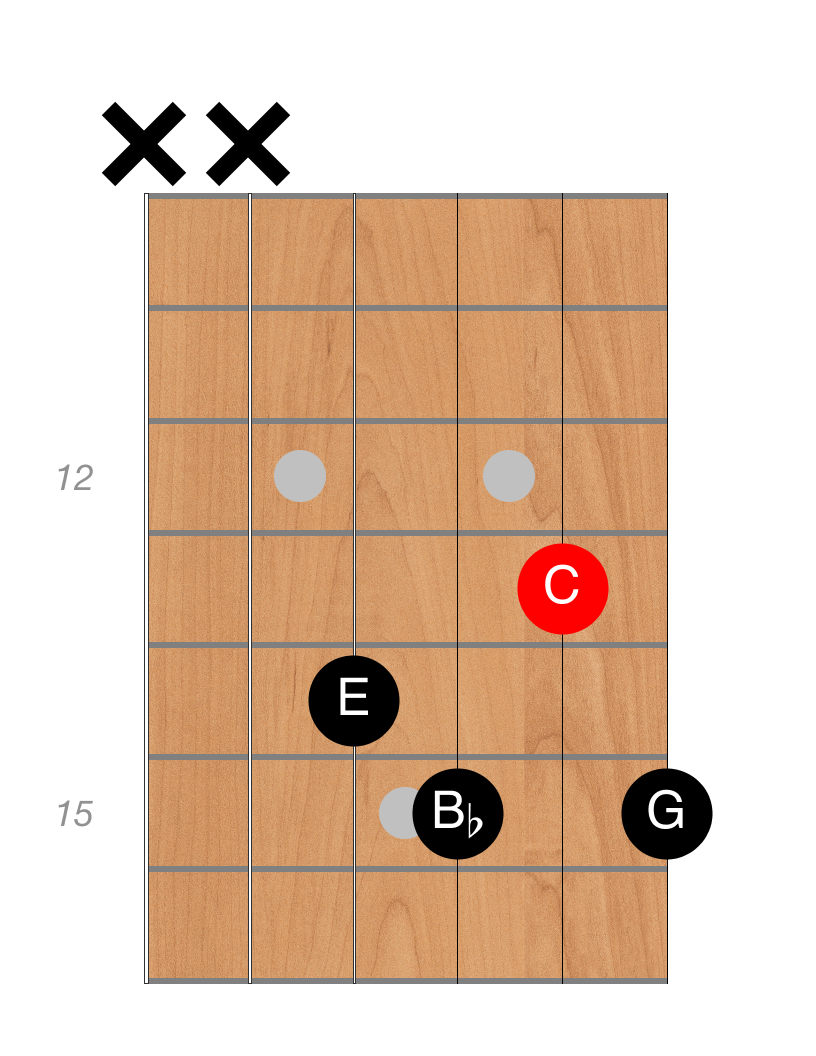
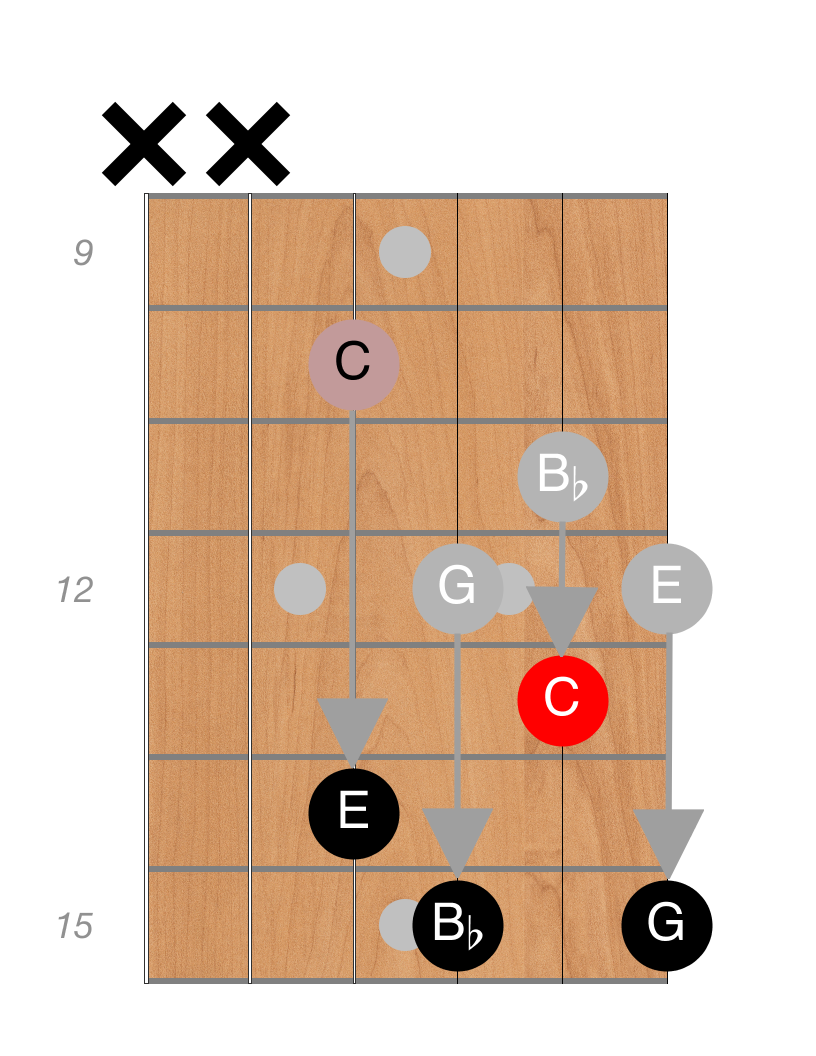
refactored and added blues-comping post

diff --git a/content/post/2020-02-22-blues-comping.md b/content/post/2020-02-22-blues-comping.md
@@ -1,0 +1,95 @@
+---
+title: "Blues Comping"
+author: "Rex Walters"
+date: 2020-02-22T18:54:48-08:00
+subtitle: "Applying 4-string dom7 shapes"
+image: ""
+tags: [theory,blues]
+draft: false
+---
+
+Now that I have sooooo many posts on this blog about soloing and scales, it's easy to lose sight of the fact that you'll spend most of your time playing **rhythm** using chords. It's also true that you can't really put together a coherent solo unless you can instantly and effortlessly find the chord tones of the underlying harmony. Put simply: rhythm and chords are even more important than scales and solos. It's time to focus on them specifically.
+
+Let's start with rhythm. In a blues context (or pretty much any modern western music context &mdash; i.e. anything other than classical, martial, or polka music) the **backbeat** is king. The backbeat is either beats two and four in a bar of 4/4, or the "ands" if you are playing eighth notes.
+
+### The Backbeat
+
+That last sentence above might seem a little confusing at first. Just remember that playing four quarter notes in a bar of 4/4 at 100 BPM sounds **exactly** the same as playing eighth notes at 50 BPM. At higher BPMs you tend to think of the backbeat as beats 2 and 4. At slower BPM (like with a slow blues) you tend to think of it as the "ands".
+
+The first step is to get used to simply *hearing* the backbeat in 4/4 time (by **far** the most common time signature in all forms of western music).
+
+The easiest and best way to get good at this is to regularly practice with a metronome, and always (or at least usually) practice with it only clicking on the backbeat.
+
+### Counting in with clicks on the backbeat
+
+The first drill doesn't even use your guitar. First set your metronome to a nice slow tempo (like 50 BPM). We'll now learn to hear the clicks as beats two and four.
+
+We are going to practice first listening to the clicks for a bit, then counting out loud: One ... Two, ..., One, two, three, four!
+
+You've probably heard this a million times before as live bands get started on songs: the drummer or band leader says, "Uh one ... two ... uh one two three four" &mdash; then the band starts playing perfectly in synch with one another. Without the count in, it's almost impossible to all start together in synch.
+
+Confusingly, the first two counts are usually **half time**. That is, the first time you hear the word "two" it's actually on beat three! As weird as this seems at first, it will eventually become second nature.
+
+Listen to this moderately succesful musician demonstrate the process:
+
+{{< youtube C3_0GqPvr4U  >}}
+
+(A minor but important detail is that it's common to start the count with a "pickup" bar. They often start counting on the "and" of beat four in the previous bar. That's why you often hear "**Uh** one ... two ...." &mdash; the "uh" is the "and" of beat four in the previous bar.)
+
+All of this discussion may seem unnecessary, but it isn't nearly as trivial to do as it sounds. (At first, anyway. It quickly becomes second nature.)
+
+Here's a five minute video of me trying to demonstrate and explain the process:
+
+{{< youtube -VxfYSplF80  >}}
+
+Practice starting and stopping your metronome and starting a count like this. Keep at it until it's second nature. You'll likely struggle at first, but it should become easy fairly quickly. Just remember to nod your head, tap your foot, or shake your booty at double time and start the count **between** clicks. Seriously: it's **way** easier if you move your body in some way.
+
+### Harmony: Playing over the blues changes
+
+By now you should be familiar with the blues form. To review, a twelve bar blues comprises three "systems" (rows) of four bars. In it's simplest form:
+
+    / I7  / %  /  % /   %       /
+    / IV7 / %  / I7 /   %       /
+    / V7 / IV7 / I7 / % (or V7) /
+
+
+
+It starts with four bars of the "I chord". In an A blues, this would be A7. Lyrically, this first system can be thought of as a "sentence" that is further divided into a "call" and "response" with the call in the first two bars, and the response in bars three and four. Something like: "I woke up this morning &mdash; oh Lord I felt so bad." The response ("Oh Lord ...") starts in bar 3.
+
+Then it has another call and response "sentence" in bars 4 through 8. It's likely very similar to the first system: "Something woke me this morning &mdash; dear Lord I hurt so bad."
+
+The last four bars are called the "turnaround" and tend to tie things together. Perhaps something like "My baby done left me! I just feel so doggone bad."
+
+We are now going to practice playing dom7 chords over a full 12 bar blues progression.
+
+### Hearing the changes
+
+When I first started, I really struggled even **hearing** the underlying chords change. My brain was so preoccupied thinking about chords and scales and shapes and rhythms that I was no longer **listening** to what the band (or backing track) was actually playing. This is a serious problem! You can't play well without listening (and reacting) to the underlying harmony.
+
+Believe it or not, your ears are already trained to hear the changes &mdash; you've been hearing the 12 bar blues progression since you were a small child (whether you realized it or not). Your subconscious already recognizes the movement from the I7 to the IV7, and the turnaround from the V7 to the IV7 to the I7. The trick is to move this to your **conscious** mind.
+
+The next sequence of exercises are intended to help you "hear the changes" in a blues progression. It's important to hear and anticipate the chord changes in any song, but the nice thing about the blues is that the chords are always quite predictable and familiar.
+
+### Exercise 1: Rubato changes
+
+The first exercise is to simply find the I7, IV7, and V7 chords in local groupings on the fretboard. It pays to keep things as simple as possible and progress in baby steps. Start with just one shape for each chord, no metronome, and just strum the first beat of each measure:
+
+{{< youtube f-RrRkt6N8U >}}
+
+Eventually, you want to be able to easily find the I7, IV7, and V7 chords anywhere on the neck, but at first its good to practice them close together, with all three chords in roughly the same location on the neck. Try to visualize how the root note is moving across the strings as the chords change.
+
+### Exercise 2: Metronome on the backbeat
+
+Next, practice to a metronome on beats two and four. Keep it simple at first and just play "Freddie Green" style with simple quarter notes:
+
+{{< youtube vhf9o6MAUrY  >}}
+
+### Exercise 3: Playing to a backing track
+
+The real fun starts when you start accompanying others in a band situation. Since most of us don't have a band willing to help you practice 24x7, it's helpful to find backing tracks online or to create your own with apps like Garage Band or [iReal Pro](https://irealpro.com).
+
+When you are playing on your own (rubato or two a metronome or drum track) its easy to get lost and forget where you are in a progression. Playing to a backing track will keep you honest.
+
+Remember to **listen** to the chords playing in the background. Learn to anticipate the changes. Repeat this exercise as much as possible until you never get lost and always know where you are in the progression.
+
+{{< youtube Ztj2TExwf1Q  >}}

diff --git a/content/post/2020-02-21-four-string-blues.md b/content/post/2020-02-21-four-string-blues.md
@@ -8,7 +8,7 @@ tags: [theory,blues]
 draft: false
 ---
 
-When soloing or playing with a band, it's often helpful to avoid the lowest two strings. Those lower registers are where the bass player and the rest of the band tend to hang out.
+When soloing or playing with a band, it's often helpful to avoid the lowest two strings. Those lower registers are where the bass player and the rest of the band (or at least the left hand of the keyboardist) tend to hang out.
 
 The blues uses dominant seventh chords (with extensions and alterations) almost exclusively. Just as with triads, it's useful to spend a lot of time with seventh chords that only use the top four strings.
 
@@ -16,7 +16,7 @@ Seventh chords, four-note chords, can be inverted exactly like triads. Because t
 
 ## Example: C7 (root inversion)
 
-C7, for example, is spelled C, E, G, B&flat;. Playing those notes in order on the fretboard would look like this:
+C7, for example, is spelled C, E, G, B&flat;. Playing those notes in order on the top four strings would look like this:
 
 {{< figure src="/img/neck-diagrams/4-string-blues/C7-root-unplayable.png" title="C7 Root Inversion" width="33%" >}}
 
@@ -30,7 +30,7 @@ This still has the root note, C, as the lowest note, so we'll still call it the 
 
 ## Remaining inversions of C7
 
-To find the next inversion, we raise each note to the next one in the chord. The root is raised to the 3rd, the 3rd to the 5th, and the 5th to the &flat;7. Using note names, instead of C/G/B&flat;/E, we play E/B&flat;/C/G:
+To find the next inversion, we raise each note to the next one in the chord. The root is raised to the 3rd, the 3rd to the 5th, and the 5th to the &flat;7. Using note names: instead of C/G/B&flat;/E, we play E/B&flat;/C/G:
 
 {{< figure src="/img/neck-diagrams/4-string-blues/C7-1st-inv-high.png" title="C7 First Inversion" width="33%" >}}
 
@@ -56,7 +56,11 @@ Let's get back to the blues and dominant seventh chords, though. Here are all fo
 
 {{< figure src="/img/neck-diagrams/4-string-blues/C7-all.png" title="C7 All Inversions" width="33%" >}}
 
-Notice that the root note only exists in one location within each inversion (of course, since we're only playing 4-note shapes). Since you've already memorized the notes everywhere on the fretboard (right?!! :-) it should now be easy to find dominant 7 chord shapes anywhere on the fretboard!
+Practice playing all four shapes of C7 until you've got the shapes and locations memorized.
+
+Notice that the root note only exists in one location within each inversion (of course, since we're only playing 4-note shapes). That is, one shape has the root on the first string, another on the second string, another on the third, and the last one on the fourth.
+
+Since you've already memorized the notes everywhere on the fretboard (right?!! :-) it should now be easy to find dominant 7 chord shapes for any chord anywhere on the fretboard!
 
 ### Finding dom7 chord shapes
 
@@ -64,7 +68,7 @@ Let's say your fretting hand is somewhere around the 5th fret and you want to pl
 
 {{< figure src="/img/neck-diagrams/4-string-blues/G7-root.png" title="G7 at 5th Fret" width="33%" >}}
 
-### Practice drills
+### Practice drill
 
 The first step is simply to practice forming all four shapes. First practice forming and moving between all four shapes rubato (out of time). Play the chord, then just hit the root note. Keep moving between all four shapes.
 
@@ -72,36 +76,14 @@ Start with C7 as diagramed above, then practice in every natural key by ascendin
 
 This will be **hard** at first, but it gets easier. You'll quickly discover two ways to find the chords:
 
-* **Dead Reckoning**: First find the root on one of the top four strings, then form the appropriate chord shape around that note.
+* **Pilotage**: First find the root on one of the top four strings, then form the appropriate chord shape around that note. (This is what was described above with the G7 example.)
 
-* **Pilotage**: Starting with a shape you know, form the next shape higher or lower on the fretboard. The shapes always proceed in the same order.
+* **Dead Reckoning**: Starting with a shape you know, form the next shape higher or lower on the fretboard. The shapes always proceed in the same order. If you can find one, you can find the rest.
 
-You'll quickly become proficient with both techniques if you keep at it.
+Here's a video of me demonstrating how to practice these shapes. Keep working at it until you can quickly form all four shapes of dom7 on the top strings, progressing through all natural notes (BEADGCF).
 
 {{< youtube 5aKnvYlNpvk >}}
 
-#### Practicing with the blues
+You'll quickly and automatically become proficient with both pilotage and dead reckoning if you keep at it. There is no need to force yourself to think both ways, it should happen naturally.
 
-The next step is to practice moving between dom7 chords over a 12 bar blues progression. Either find or create a 12 bar blues backing track ([iReal Pro](https://irealpro.com) is **great** for this!) and practice forming these four shapes over the progression.
-
-The goal is three-fold:
-
-1. To work on your **timing** and **groove**. It's important to practice playing in time.
-
-2. To train your ears to start hearing the chord changes. Believe it or not, your ears are already trained to hear the changes &mdash; you've been hearing the 12 bar blues progression since you were a small child (whether you realized it or not). Your subconscious already recognizes the movement from the I7 to the IV7, and the turnaround from the V7 to the IV7 to the I7. The trick is to move this to your **conscious** mind.
-
-3. To improve your fretboard visualization, and learn to "see" the chord shapes (and scale shapes) on the fretboard as the changes occur.
-
-The first step is to get used to hearing the *backbeat** in 4/4 time (by **far** the most common time signature in all forms of western music).
-
-This drill doesn't even use your guitar. Put your metronome at a nice slow tempo (like 50 BPM) and learn to hear the clicks as beats two and four. Listen to the clicks for a bit, then count out: One ... Two, ..., One, two, three, four.
-
-You've probably heard this a million times before as live bands get started on songs: "Uh one ... two ... uh one two three four, (band starts playing)". Confusingly, the first two counts are **half time**. That is, the first time you hear the word "two" it's actually on beat three! This is an extremely common way of counting in a song, though.
-
-This guy, for example, seems to have known what he was doing:
-
-{{< youtube C3_0GqPvr4U  >}}
-
-One of the best ways to practice is with a metronome with clicks only on two and four. As silly as it may seem, this isn't as easy as it sounds. Here's a five minute video of me trying to explain the process:
-
-{{< youtube -VxfYSplF80  >}}
+In [the next post]({{< ref "/post/2020-02-22-blues-comping.md" >}}), I'll show how to apply these shapes to "comp" (accompany) the blues.
